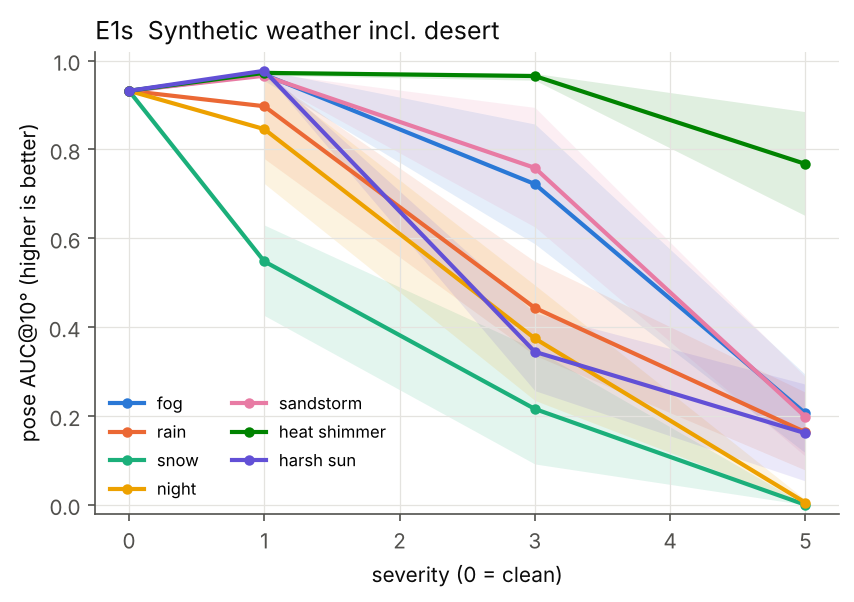
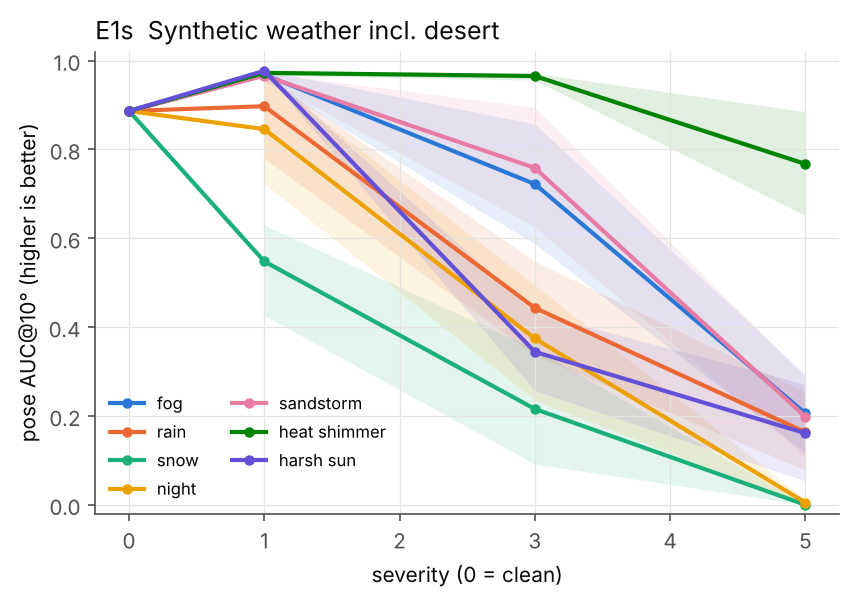
E6 SIFT incremental vs global: 3 seeds
Claude-Session: https://claude.ai/code/session_01DwFUuxyVwkhujN2CBgQS9g

Changed region(s): [[0.1218, 0.1196, 0.3044, 0.4186]]

diff --git a/results/summary.md b/results/summary.md
@@ -5,7 +5,7 @@ Metric: pose AUC@10° over all input image pairs (unregistered = failure) and re
 
 ## Clean baseline
 
-41 runs, AUC@10 = 0.932 (std 0.137), registration 0.997.
+48 runs, AUC@10 = 0.886 (std 0.208), registration 0.997.
 
 
 ## E2a  Analytic corruptions
@@ -142,12 +142,12 @@ Metric: pose AUC@10° over all input image pairs (unregistered = failure) and re
 
 | condition         |   sift+global |   sift+incremental |
 |:------------------|--------------:|-------------------:|
-| clean_s0          |         0.4   |              0.965 |
-| crowd_s4          |         0.006 |              0.099 |
-| fog_s5            |         0.313 |              0.236 |
-| gaussian_noise_s4 |         0.215 |              0.126 |
-| motion_blur_s3    |         0.058 |              0     |
-| night_s3          |         0.374 |              0.421 |
+| clean_s0          |         0.377 |              0.963 |
+| crowd_s4          |         0.01  |              0.109 |
+| fog_s5            |         0.414 |              0.201 |
+| gaussian_noise_s4 |         0.273 |              0.089 |
+| motion_blur_s3    |         0.041 |              0     |
+| night_s3          |         0.394 |              0.367 |
 
 
 ## E1  Real weather (Boreas)
